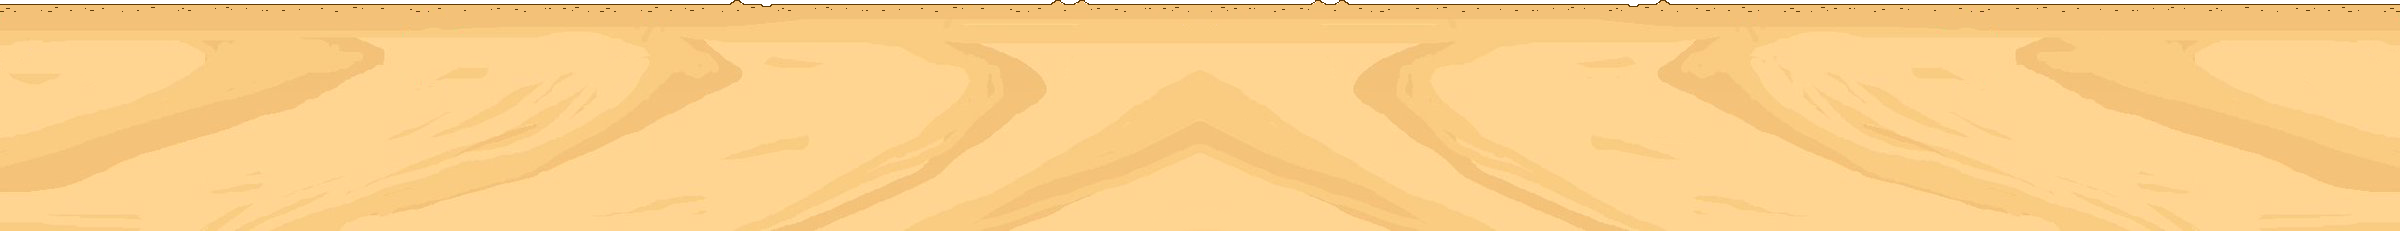
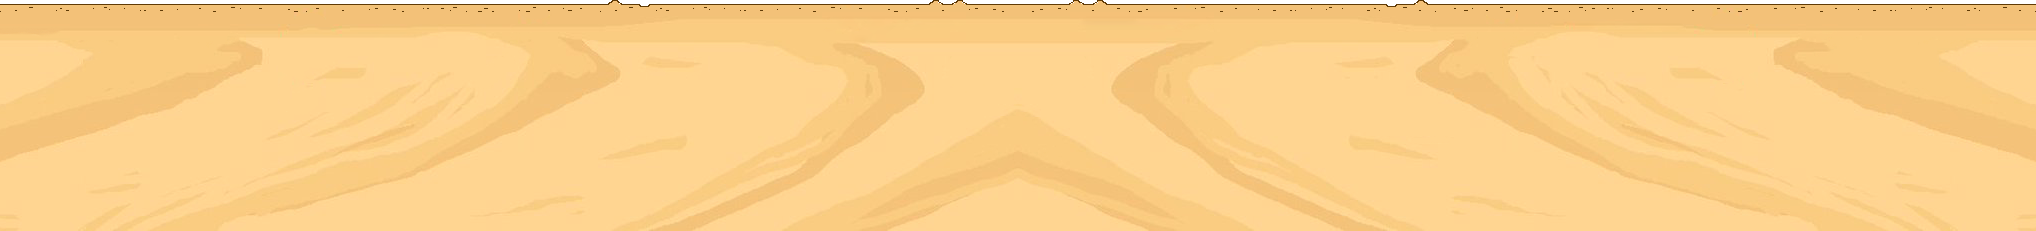
Last ceck -Ho provato a creare una transizione/animazione per il cambio grafica purtroppo, senza alcun risultato. Nel momento in cui vado a stoppare il thread principale non ho più modo di riavviare il gioco, nè di fare paint, nè di fare rapaint... niente!

diff --git a/src/main/Board.java b/src/main/Board.java
@@ -54,9 +54,6 @@ public class Board extends JPanel implements Runnable, ActionListener {
         TRex = new TRex();
         background = new Background();
         grass_ground = new Ground();
-        
-        
-
         //OSTACOLI
         obstacles = new Obstacles();
         
@@ -77,7 +74,7 @@ public class Board extends JPanel implements Runnable, ActionListener {
         
         animator = new Thread(this);
         animator.start();
-        
+
     }
     
     
@@ -85,14 +82,12 @@ public class Board extends JPanel implements Runnable, ActionListener {
     public void updateGame() {
         
         distance += 1;
-        
         distanceForScore += 0.1;
         score += 1;
         background.update();
         grass_ground.update();
         moneys.update();
         obstacles.update();
-        
 
         if (obstacles.hasCollided(TRex.getCollider())) {
             running = false;
@@ -101,11 +96,13 @@ public class Board extends JPanel implements Runnable, ActionListener {
         }
         Obstacle collidedMoney = moneys.hasCollided(TRex.getCollider());
         if (collidedMoney != null) {
-            System.out.println("Ho preso una monetina shobalola");
+            //System.out.println("Ho preso una monetina shobalola");
             moneys.getObArray().remove(collidedMoney);
             coin += 1;
             score += 1;
         }
+        
+        
 
         
     }
@@ -113,7 +110,7 @@ public class Board extends JPanel implements Runnable, ActionListener {
     @Override
     public void paint(Graphics g) {
         super.paint(g);
-                
+         
         background.create(g);
         grass_ground.create(g);//creare sempre prima il ground
         moneys.create(g);
@@ -145,6 +142,17 @@ public class Board extends JPanel implements Runnable, ActionListener {
                 System.out.println(ex.getMessage());
             }
         }//while running
+        
+        
+        while (blinking) {
+            this.updateGame();
+            this.repaint();
+            try {
+                Thread.sleep(35);
+            } catch (InterruptedException ex) {
+                System.out.println(ex.getMessage());
+            }
+        }//while blinking
     }
 
     @Override

diff --git a/src/components/Cactus.java b/src/components/Cactus.java
@@ -13,7 +13,7 @@ public class Cactus extends Obstacle{
     
 
     public Cactus(int x, int y) {
-        super(x, y, "src/image/Cactus-" + (int) (Math.random() * 4 + 1) + ".png");
+        super(x, y, "src/image/old/Cactus-" + (int) (Math.random() * 4 + 1) + "-colorato.png");
 
         //this.setImage(new Utility().create(path));
         //this.setY(y-this.getImage().getHeight());

diff --git a/src/components/Background.java b/src/components/Background.java
@@ -40,7 +40,7 @@ public class Background {
         
         
         //OLD
-        this.backGround = new Utility().create("src/image/old/background3.png");
+        this.backGround = new Utility().create("src/image/old/background3_small.jpg");
         
         //COLOURED
         //this.grassGround = new Utility().create("src/image/coloured/T-Run_ground_grass3.png"); 
